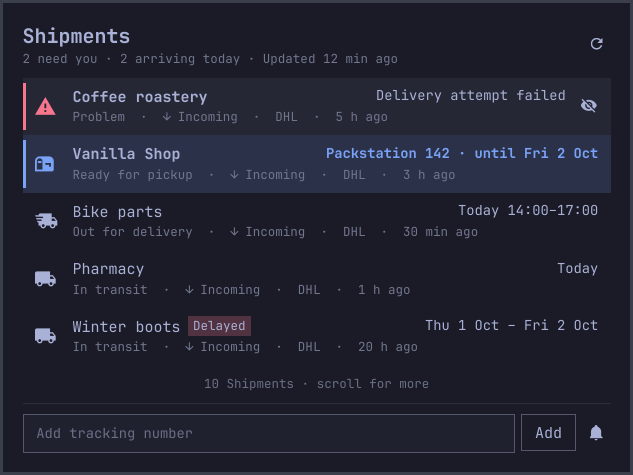
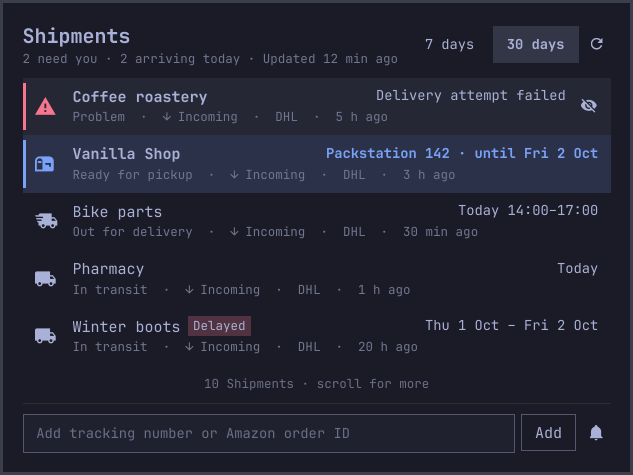
Rebase onto main: Dismissed with retention, Health and the 7/30 view (#35)
needsYou and the tooltip (#47) leave Dismissed Shipments out; the list's
ListModel follows recentShipments (#45) with the Dismissed filter on top,
so rows leaving or entering the 7/30 view animate too. The dismissed link
shares the line under the list with the scroll hint. A retention-dropped
Shipment's dismissal doesn't bring it back (test).

diff --git a/plugin/ShipmentList.qml b/plugin/ShipmentList.qml
@@ -351,21 +351,24 @@ Column {
 
   // Under the list: "12 Shipments · scroll for more · 2 dismissed · show".
   Item {
+    id: listNotesBox
     width: parent.width
     height: listNotes.implicitHeight
-    visible: scrollHint.visible || dismissedLink.visible
+    readonly property bool scrolls: list.count > 5
+    readonly property bool anyDismissed: root.store !== null && root.store.dismissedCount > 0
+    visible: scrolls || anyDismissed
     Row {
       id: listNotes
       anchors.horizontalCenter: parent.horizontalCenter
       Text {
         id: scrollHint
-        visible: list.count > 5
-        text: list.count + " Shipments · scroll for more" + (dismissedLink.visible ? " · " : "")
+        visible: listNotesBox.scrolls
+        text: list.count + " Shipments · scroll for more" + (listNotesBox.anyDismissed ? " · " : "")
         color: Qt.darker(root.fg, 1.6); font.family: root.ff; font.pixelSize: Style.font.caption
       }
       Text {
         id: dismissedLink
-        visible: root.store !== null && root.store.dismissedCount > 0
+        visible: listNotesBox.anyDismissed
         text: visible ? root.store.dismissedCount + " dismissed · " + (root.store.showDismissed ? "hide" : "show") : ""
         color: dismissedMouse.containsMouse ? root.fg : Qt.darker(root.fg, 1.6); font.family: root.ff; font.pixelSize: Style.font.caption
         MouseArea {
